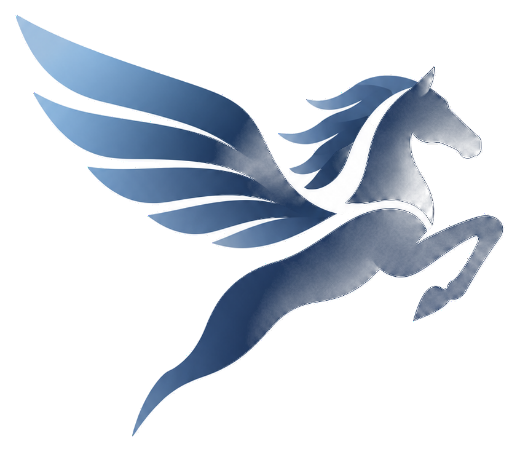
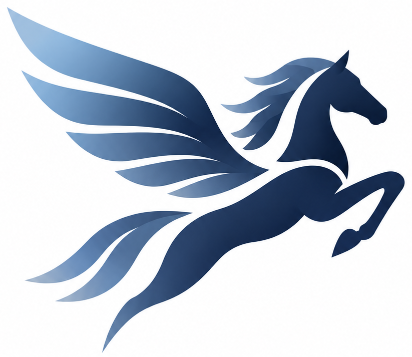
restyle(p2): adopt full-pegasus mark from brand master

diff --git a/src/components/SiteNav.tsx b/src/components/SiteNav.tsx
@@ -73,9 +73,9 @@ export function SiteNav({
               <img
                 src="/pegasus-mark.png"
                 alt=""
-                width={520}
-                height={452}
-                className="h-[27px] w-auto"
+                width={412}
+                height={357}
+                className="h-[26px] w-auto"
               />
             </span>
             <span className="font-display text-lg font-bold tracking-tight text-header-fg">
